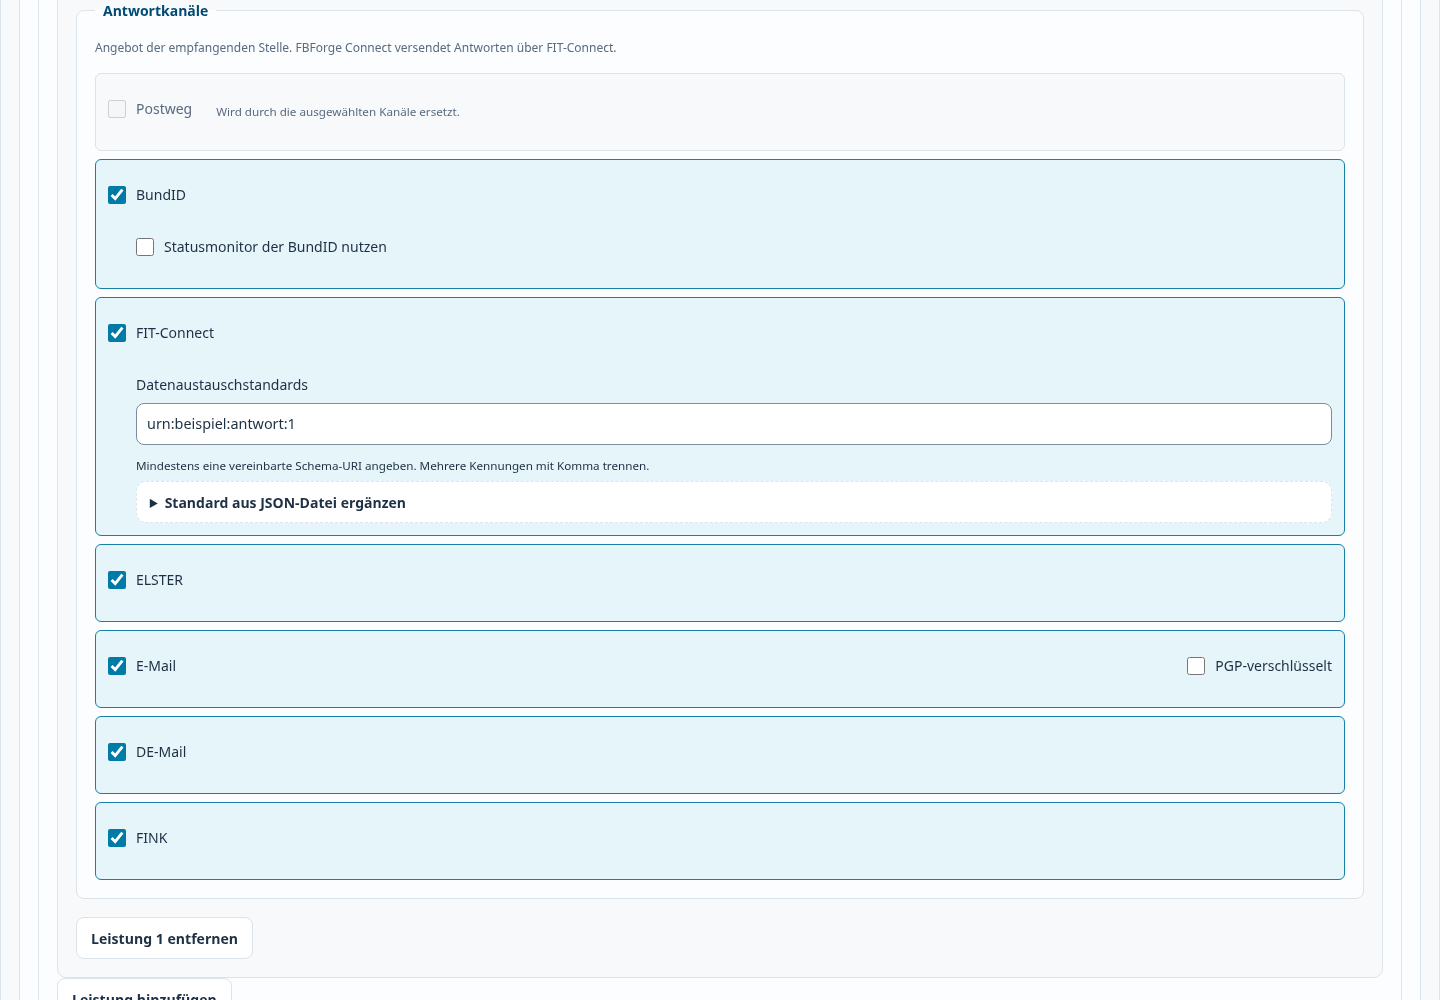
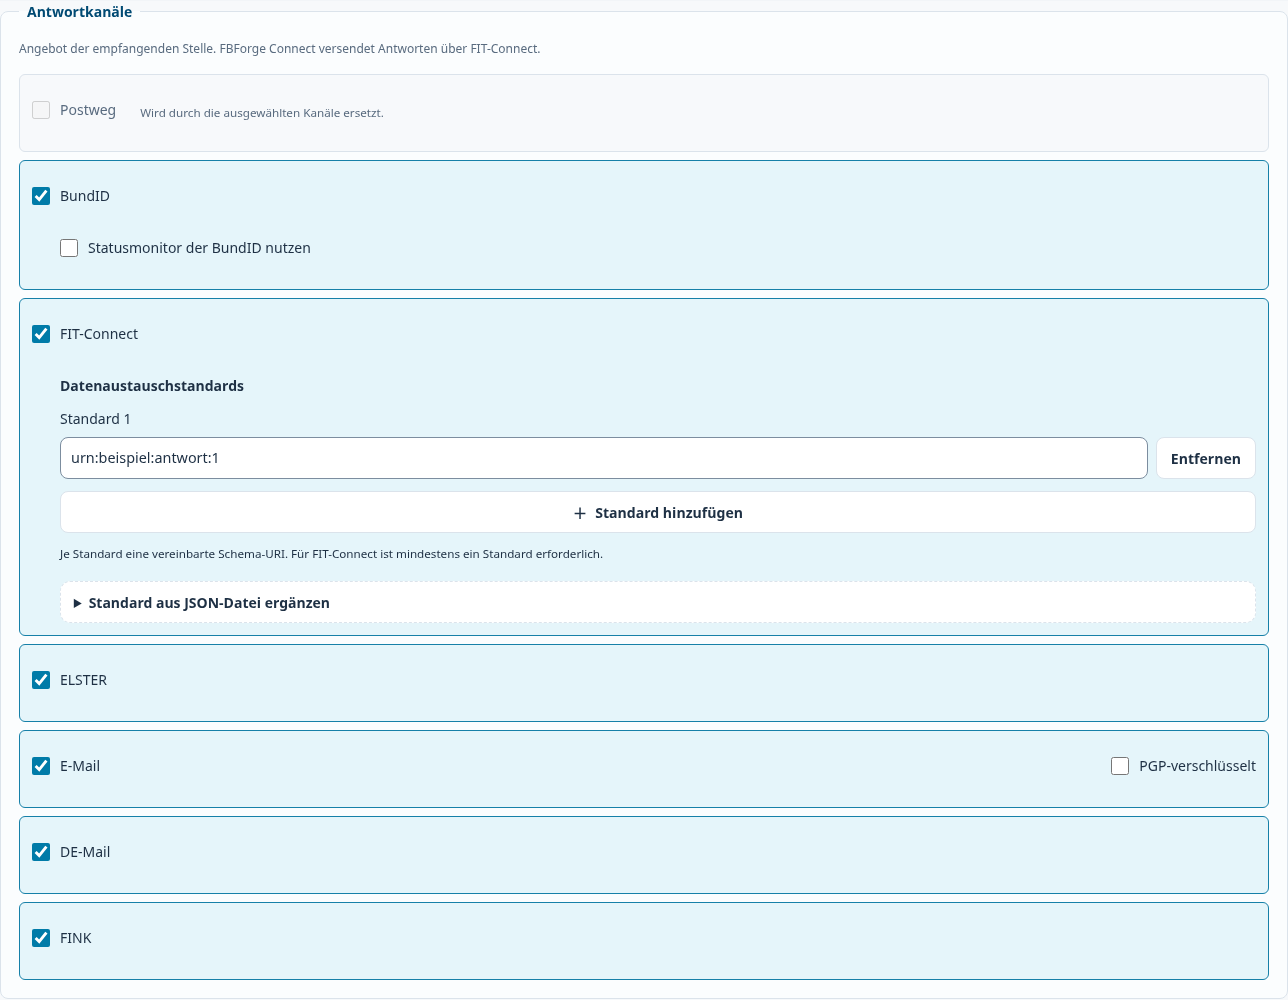
fix(destinations): edit reply standards individually like the SSP

diff --git a/frontend/src/destinations/DestinationReplyChannels.vue b/frontend/src/destinations/DestinationReplyChannels.vue
@@ -1,5 +1,5 @@
 <script setup>
-import { computed } from 'vue';
+import { computed, nextTick } from 'vue';
 import SchemaIdentifierFile from '../SchemaIdentifierFile.vue';
 const props = defineProps({
   modelValue: Object,
@@ -35,7 +35,31 @@ function toggle(key, checked) {
   change(key, checked ? value : null);
 }
 function standards(values) {
-  change('fitConnect', { processStandards: [...new Set(values)] });
+  change('fitConnect', { processStandards: values });
+}
+const standardId = (index) => `${props.prefix}-replies${index ? `-${index}` : ''}`;
+async function addStandard() {
+  const values = props.modelValue?.fitConnect?.processStandards || [];
+  if (props.disabled || values.length >= 16) return;
+  standards([...values, '']);
+  await nextTick();
+  document.getElementById(standardId(values.length))?.focus();
+}
+function updateStandard(index, value) {
+  standards(props.modelValue.fitConnect.processStandards.map((entry, i) => (i === index ? value : entry)));
+}
+async function removeStandard(index) {
+  const values = props.modelValue.fitConnect.processStandards.filter((_, i) => i !== index);
+  standards(values);
+  await nextTick();
+  document
+    .getElementById(
+      values.length ? standardId(Math.min(index, values.length - 1)) : `${props.prefix}-standard-add`,
+    )
+    ?.focus();
+}
+function importStandard(uri) {
+  standards([...new Set([...(props.modelValue.fitConnect.processStandards || []).filter(Boolean), uri])]);
 }
 </script>
 <template>
@@ -80,25 +104,45 @@ function standards(values) {
         </label>
       </div>
       <div v-if="key === 'fitConnect' && modelValue?.fitConnect" class="channel-settings">
-        <label :for="`${prefix}-replies`">
-          Datenaustauschstandards
-          <input
-            :id="`${prefix}-replies`"
+        <p class="reply-standards-title">Datenaustauschstandards</p>
+        <div
+          v-for="(uri, index) in modelValue.fitConnect.processStandards || []"
+          :key="index"
+          class="reply-standard-row"
+        >
+          <label :for="standardId(index)">
+            Standard {{ index + 1 }}
+            <input
+              :id="standardId(index)"
+              data-reply-standard
+              :disabled="disabled"
+              :value="uri"
+              :aria-describedby="`${prefix}-standards-note`"
+              @input="updateStandard(index, $event.target.value)"
+            />
+          </label>
+          <button
+            class="button secondary"
+            type="button"
             :disabled="disabled"
-            :value="modelValue.fitConnect.processStandards?.join(', ') || ''"
-            :aria-describedby="`${prefix}-standards-note`"
-            @input="
-              standards(
-                $event.target.value
-                  .split(',')
-                  .map((s) => s.trim())
-                  .filter(Boolean),
-              )
-            "
-          />
-        </label>
+            :aria-label="`Standard ${index + 1} entfernen`"
+            @click="removeStandard(index)"
+          >
+            Entfernen
+          </button>
+        </div>
+        <button
+          :id="`${prefix}-standard-add`"
+          class="button secondary"
+          type="button"
+          :disabled="disabled || (modelValue.fitConnect.processStandards?.length || 0) >= 16"
+          @click="addStandard"
+        >
+          <span aria-hidden="true">＋</span>
+          Standard hinzufügen
+        </button>
         <small :id="`${prefix}-standards-note`">
-          Mindestens eine vereinbarte Schema-URI angeben. Mehrere Kennungen mit Komma trennen.
+          Je Standard eine vereinbarte Schema-URI. Für FIT-Connect ist mindestens ein Standard erforderlich.
         </small>
         <details>
           <summary>Standard aus JSON-Datei ergänzen</summary>
@@ -108,7 +152,7 @@ function standards(values) {
             :context-key="JSON.stringify([contextKey, modelValue])"
             :disabled="disabled || (modelValue.fitConnect.processStandards?.length || 0) >= 16"
             label="Unterstütztes Antwortschema aus JSON-Datei ergänzen"
-            @select="standards([...(modelValue.fitConnect.processStandards || []), $event])"
+            @select="importStandard"
           />
         </details>
       </div>
@@ -166,6 +210,30 @@ function standards(values) {
   padding-inline-start: 1.75rem;
   min-width: 0;
 }
+.reply-standards-title {
+  margin: 0;
+  font-weight: 600;
+}
+.reply-standard-row {
+  display: flex;
+  align-items: end;
+  gap: 0.5rem;
+}
+.reply-standard-row label {
+  flex: 1;
+  min-width: 0;
+  margin: 0;
+}
+.reply-standard-row input {
+  width: 100%;
+}
+.reply-standard-row .button {
+  flex-shrink: 0;
+}
+.channel-settings:has(.reply-standards-title) {
+  display: grid;
+  gap: 0.75rem;
+}
 .channel-settings details {
   margin-bottom: 0;
 }
@@ -174,6 +242,12 @@ function standards(values) {
   color: var(--muted);
 }
 @media (max-width: 700px) {
+  .reply-standard-row {
+    flex-wrap: wrap;
+  }
+  .reply-standard-row label {
+    flex-basis: 12rem;
+  }
   .channel-option {
     margin-inline-start: 1.75rem !important;
   }

diff --git a/docs/guide/topics.js b/docs/guide/topics.js
@@ -445,7 +445,7 @@ export const helpTopics = [
       'Unter API v2 führt „Mit diesen Zugangsdaten über API v3 verwalten“ ausdrücklich zur Verwaltungs-API. Ein read-destinations-Scope allein beweist nicht, dass Schreibrechte fehlen. Unbekannte Rechte werden beim Aufruf geprüft. Bei eindeutig fehlender Berechtigung erklären Text und Schaltflächenhinweis den Grund. Der Server entscheidet über jede Änderung.',
       'Die Zustellpunkt-Sicherung enthält ausschließlich öffentliche Konfiguration und öffentliche Schlüssel. Private Schlüssel verwalten Sie im Profil. Das Callback-Secret ist nicht über die API lesbar und muss bei einer Übernahme neu vergeben werden. Zugangsdaten, OAuth-Token und Antragsinhalte sind nicht enthalten.',
       'Pro Profil und Umgebung sind bis zu 20 Sicherungen mit jeweils höchstens 4 MiB unverschlüsseltem Inhalt möglich. Typ B und ältere Angebotsformate lassen sich sichern und exportieren. Stammdaten können auch bei Typ B bearbeitet werden. Neue Destinations aus Sicherungen erstellt der Assistent für Typ A und C, Leistungsangebote bearbeitet er bei Typ A. Bestehende Client-ID-Freigaben dürfen über API v3 nicht neu hinzugefügt werden. Stellen Sie diese vor einer neuen Anlage auf freigegebene Sender-Destinations um.',
-      'Unter „Angebote“ wählen Sie die Antwortkanäle wie im Self-Service-Portal: BundID, FIT-Connect, ELSTER, E-Mail, DE-Mail und FINK. Ohne elektronischen Kanal gilt der Postweg. Für FIT-Connect hinterlegen Sie die vereinbarten Datenaustauschstandards als Schema-URIs oder übernehmen die Kennung aus einer JSON-Datei. E-Mail bietet optional PGP-Verschlüsselung, BundID den Statusmonitor. Jeder Kanal lässt sich unabhängig ändern. FBForge Connect versendet Antworten selbst über FIT-Connect; die weiteren Kanäle konfigurieren das Angebot der empfangenden Stelle.',
+      'Unter „Angebote“ wählen Sie die Antwortkanäle wie im Self-Service-Portal: BundID, FIT-Connect, ELSTER, E-Mail, DE-Mail und FINK. Ohne elektronischen Kanal gilt der Postweg. Für FIT-Connect legen Sie mit „Standard hinzufügen“ je Datenaustauschstandard einen eigenen Eintrag an. Tragen Sie die vereinbarte Schema-URI ein oder ergänzen Sie eine Kennung aus einer JSON-Datei. Einträge lassen sich einzeln entfernen. E-Mail bietet optional PGP-Verschlüsselung, BundID den Statusmonitor. Jeder Kanal lässt sich unabhängig ändern. FBForge Connect versendet Antworten selbst über FIT-Connect; die weiteren Kanäle konfigurieren das Angebot der empfangenden Stelle.',
       'Eine Sicherung ist eine Momentaufnahme. Status und Schlüsselregistrierung werden beim Bearbeiten nicht automatisch übernommen. Der lokale Profileintrag ist an den Windows-Benutzer gebunden. Die öffentliche JSON-Datei lässt sich auf andere Rechner übertragen.',
       'Eine Destination kann existieren, obwohl der Bestätigungsschritt unterbrochen wurde. Bei ungewissem Ausgang zuerst abgleichen, statt eine weitere Destination anzulegen.',
       'Vorbereitungen und Bestätigungen gelten nur kurz und für genau die gezeigte Konfiguration.',

diff --git a/tests/ui/destination-offers.spec.js b/tests/ui/destination-offers.spec.js
@@ -16,7 +16,8 @@ test('destination-offers with synthetic native fixtures', async ({ createPage })
   await page.locator('#manager-offer-publicServices-0-schema-0').fill('urn:test:application');
   await expect(page.getByRole('checkbox', { name: 'Postweg', exact: true })).toBeChecked();
   await page.getByRole('checkbox', { name: 'FIT-Connect', exact: true }).check();
-  await page.locator('#manager-offer-0-replies').fill('urn:test:reply');
+  await page.getByRole('button', { name: 'Standard hinzufügen', exact: true }).click();
+  await page.locator('#manager-offer-0-replies').pressSequentially('urn:test:reply');
   await page.getByRole('checkbox', { name: 'DE-Mail', exact: true }).check();
   await page.getByRole('checkbox', { name: 'FINK', exact: true }).check();
   await expect(page.getByRole('checkbox', { name: 'Postweg', exact: true })).not.toBeChecked();
@@ -25,7 +26,12 @@ test('destination-offers with synthetic native fixtures', async ({ createPage })
   await page.getByRole('checkbox', { name: 'PGP-verschlüsselt', exact: true }).check();
   await page.getByRole('checkbox', { name: 'BundID', exact: true }).check();
   await page.getByRole('checkbox', { name: 'Statusmonitor der BundID nutzen', exact: true }).check();
-  await page.locator('#manager-offer-0-replies').fill('urn:test:reply:2');
+  await page.getByRole('button', { name: 'Standard hinzufügen', exact: true }).click();
+  await expect(page.locator('#manager-offer-0-replies-1')).toBeFocused();
+  await page.locator('#manager-offer-0-replies-1').pressSequentially('urn:test:reply:2');
+  await page.getByRole('button', { name: 'Standard 1 entfernen', exact: true }).click();
+  await expect(page.locator('#manager-offer-0-replies')).toBeFocused();
+  await expect(page.locator('#manager-offer-0-replies')).toHaveValue('urn:test:reply:2');
   await expect(page.getByRole('checkbox', { name: 'E-Mail', exact: true })).toBeChecked();
   await page.getByRole('button', { name: 'Prozessnachricht hinzufügen', exact: true }).click();
   await page.getByLabel('FIT-Connect-Modellkennung', { exact: true }).fill('model-1');

diff --git a/tests/ui/channel-authoring.spec.js b/tests/ui/channel-authoring.spec.js
@@ -83,6 +83,7 @@ test('schema authoring supports dark mode, keyboard access and narrow windows', 
   await page.evaluate(() => (document.documentElement.dataset.theme = 'dark'));
   for (const name of ['BundID', 'FIT-Connect', 'ELSTER', 'E-Mail', 'DE-Mail', 'FINK'])
     await page.getByRole('checkbox', { name, exact: true }).check();
+  await page.getByRole('button', { name: 'Standard hinzufügen', exact: true }).click();
   await page.locator('#authoring-0-replies').fill('urn:test:reply');
   await page.locator('#channel-uri').focus();
   await page.keyboard.press('Tab');
@@ -109,7 +110,7 @@ test('a delayed schema import cannot change a different destination service draf
   await page.locator('#authoring-publicServices-0-id').fill('urn:de:fim:leika:leistung:99000000000001');
   await page.evaluate(() => window.__releaseSchemaImport());
   await expect(page.locator('#authoring-0-reply-file')).toBeEnabled();
-  await expect(page.locator('#authoring-0-replies')).toHaveValue('');
+  await expect(page.locator('#authoring-0-replies')).toHaveCount(0);
   const offers = await page.evaluate(() => window.__channelFixture.offers);
   expect(offers.publicServices[0].replyChannels).toEqual({ fitConnect: { processStandards: [] } });
 });
